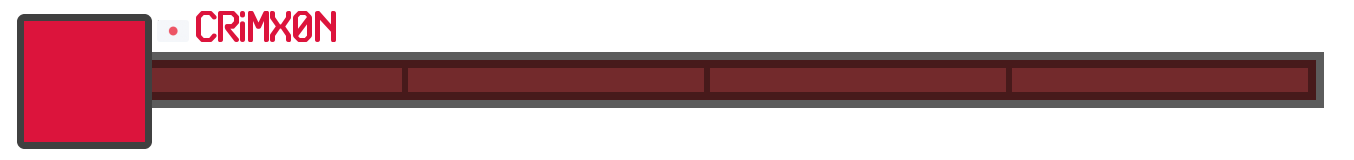
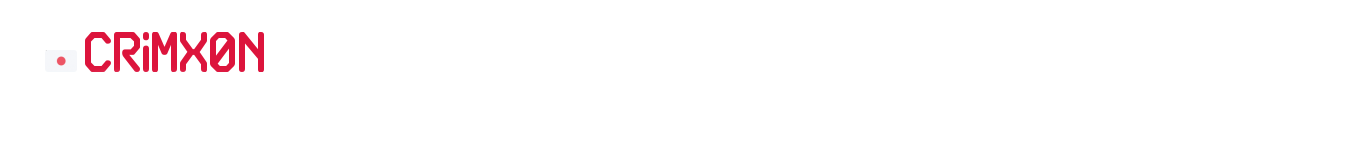
Mk6 Predator created

diff --git a/ChangeLog/ChangeLog.md b/ChangeLog/ChangeLog.md
@@ -1,7 +1,5 @@
-# Mk5 Striker
-* Mk5 Striker hides your combo number, ACC and hit bursts when you're playing beatmap.
-* You can check your combo number, score and ACC at result.
-* Mk5 Striker is more easy to confirm your appearance than Mk3 Seeker.
-* I wish you to suit this skin to concentrate on playing osu!
+# Mk6 Predator
+* Mk6 Predator is branched from Mk5 Striker
+* Predator hides HP scorebar, but displays user name
 
 > Enjoy your playing!
